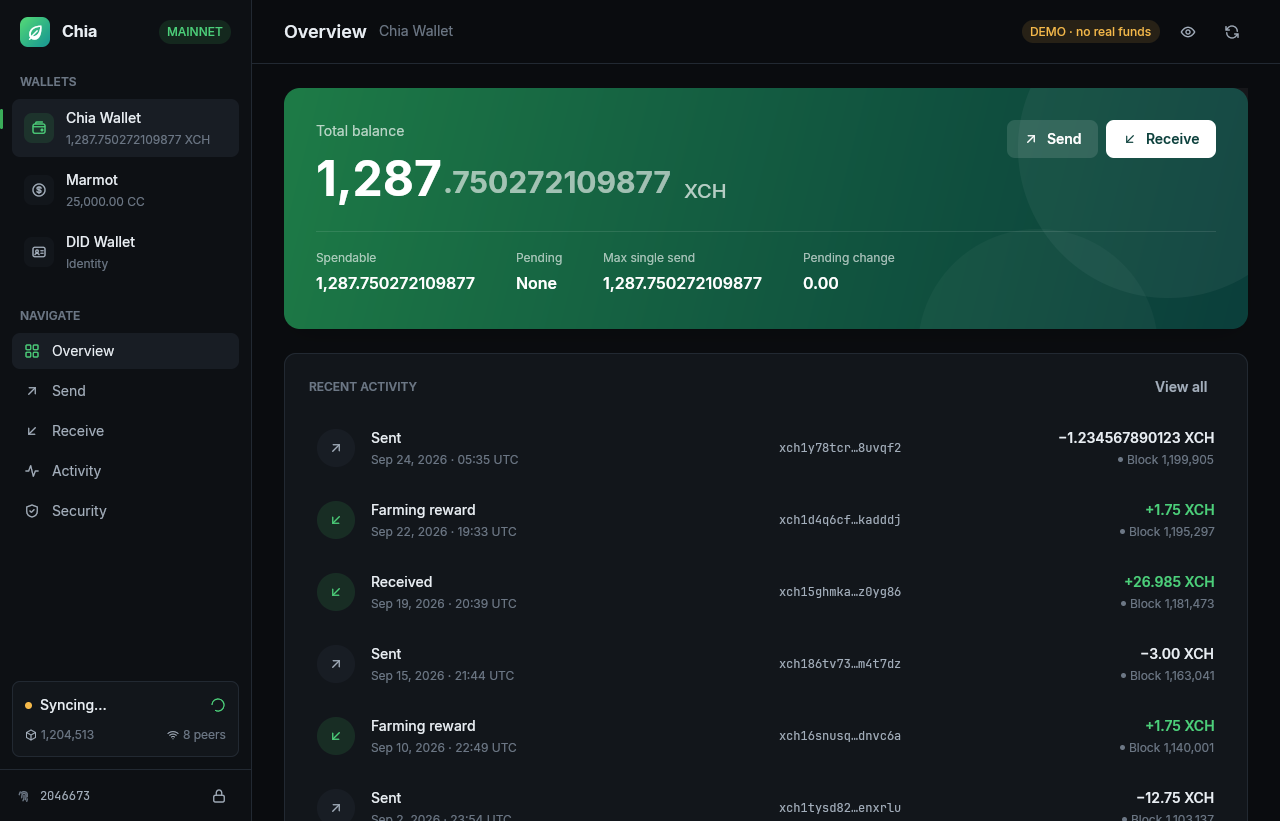
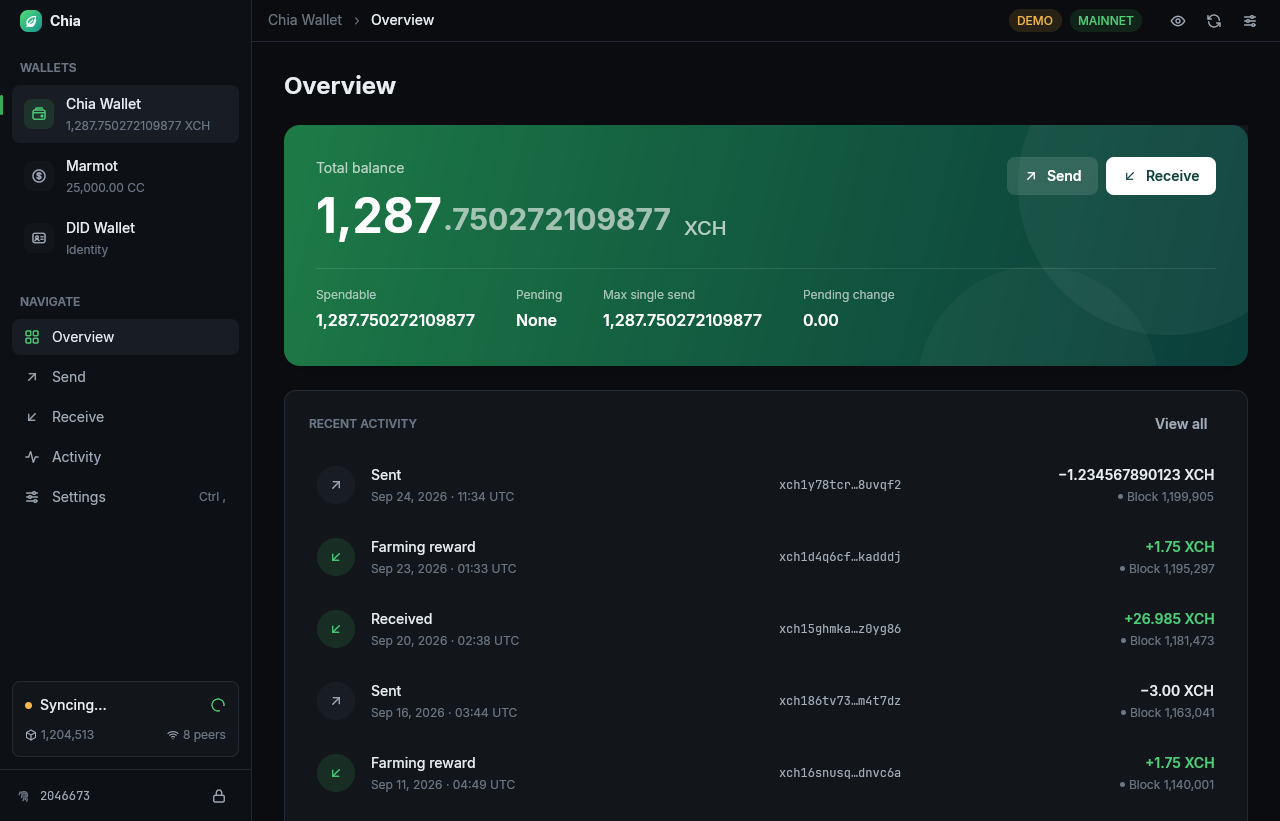
Unified top bar with inset traffic lights on macOS
- macOS: transparent titlebar; the traffic lights sit inside a 42px
  Chrome/Signal-style top bar that continues the sidebar column. Lights
  are placed within AppKit's draggable titlebar strip, and double-click
  on empty bar space zooms/minimises per the user's system setting.
- All platforms: brand moves into the top bar next to a wallet › page
  breadcrumb, status badges and privacy/refresh/settings buttons; page
  titles become large headings in the content area.

Claude-Session: https://claude.ai/code/session_01WBMvAXpwbzUtw6jjRCSUDr

diff --git a/wallet-rs/crates/app/src/shell.rs b/wallet-rs/crates/app/src/shell.rs
@@ -17,10 +17,13 @@ use crate::qr::qr_code;
 use crate::send::{PendingSend, SendForm, SendFormEvent};
 use crate::store::Store;
 use crate::theme;
-use crate::widgets::{Button, Callout, badge, callout, card, dot, eyebrow, icon, icon_button, modal, mono, spinner};
+use crate::widgets::{
+    Button, Callout, badge, callout, card, dot, eyebrow, icon, icon_button, logo, modal, mono, spinner, titlebar_area,
+};
 
 mod settings;
 
+const SIDEBAR_W: f32 = 252.;
 const ARM_DELAY: Duration = Duration::from_millis(1500);
 
 #[derive(Clone, Copy, PartialEq, Eq, Debug)]
@@ -392,51 +395,17 @@ impl Shell {
             (theme::muted(), "Not synced")
         };
         let fingerprint = store.fingerprint.map(|f| f.to_string()).unwrap_or_default();
-        let net = store.network.network_name.to_uppercase();
 
         div()
             .flex()
             .flex_col()
             .flex_none()
-            .w(px(252.))
+            .w(px(SIDEBAR_W))
             .h_full()
             .bg(theme::sidebar())
             .border_r_1()
             .border_color(theme::border())
-            .child(
-                div()
-                    .flex()
-                    .items_center()
-                    .gap_3()
-                    .px_5()
-                    .h(px(64.))
-                    .child(
-                        div()
-                            .size(px(30.))
-                            .rounded_lg()
-                            .flex()
-                            .items_center()
-                            .justify_center()
-                            .bg(linear_gradient(
-                                135.,
-                                linear_color_stop(theme::accent_hi(), 0.),
-                                linear_color_stop(theme::teal(), 1.),
-                            ))
-                            .child(icon(Icon::Leaf).size(px(18.)).text_color(theme::rgb_white())),
-                    )
-                    .child(
-                        div()
-                            .text_base()
-                            .font_weight(FontWeight::BOLD)
-                            .text_color(theme::text())
-                            .child("Chia"),
-                    )
-                    .child(div().flex_1())
-                    .when(!net.is_empty(), |d| {
-                        d.child(badge(net, theme::accent_hi(), theme::accent_soft()))
-                    }),
-            )
-            .child(div().px_5().pt_2().pb_2().child(eyebrow("Wallets")))
+            .child(div().px_5().pt_4().pb_2().child(eyebrow("Wallets")))
             .child(div().flex().flex_col().gap_1().px_3().children(wallets))
             .child(div().px_5().pt_6().pb_2().child(eyebrow("Navigate")))
             .child(
@@ -538,45 +507,92 @@ impl Shell {
 
     // ----- pages -----------------------------------------------------------------------------
 
-    fn header(&self, cx: &mut Context<Self>) -> impl IntoElement {
+    /// The unified top bar: brand over the sidebar, then breadcrumb, status
+    /// badges and quick actions. On macOS the traffic lights sit at its left.
+    fn topbar(&self, cx: &mut Context<Self>) -> impl IntoElement {
         let store = self.store.read(cx);
         let wallet_name = store.wallet(self.wallet_id).map(|w| w.name.clone()).unwrap_or_default();
         let privacy = store.privacy;
         let demo = store.security.demo;
         let offline = !store.connected;
-        div()
+        let net = store.network.network_name.to_uppercase();
+        titlebar_area("topbar")
             .flex()
-            .items_center()
-            .gap_3()
-            .px_8()
-            .h(px(64.))
             .flex_none()
-            .border_b_1()
-            .border_color(theme::border())
+            .h(px(theme::TOPBAR_H))
+            .child(
+                // Continues the sidebar column upward.
+                div()
+                    .flex()
+                    .items_center()
+                    .gap_2()
+                    .flex_none()
+                    .w(px(SIDEBAR_W))
+                    .h_full()
+                    .pl(px(20. + theme::TRAFFIC_LIGHTS_W))
+                    .pr_4()
+                    .bg(theme::sidebar())
+                    .border_r_1()
+                    .border_color(theme::border())
+                    .child(logo(22.))
+                    .child(
+                        div()
+                            .text_sm()
+                            .font_weight(FontWeight::BOLD)
+                            .text_color(theme::text())
+                            .child("Chia"),
+                    ),
+            )
             .child(
                 div()
-                    .text_lg()
-                    .font_weight(FontWeight::SEMIBOLD)
-                    .text_color(theme::text())
-                    .child(self.page.title()),
-            )
-            .child(div().text_sm().text_color(theme::muted()).child(wallet_name))
-            .child(div().flex_1())
-            .when(offline, |d| {
-                d.child(badge("Reconnecting to daemon…", theme::danger(), theme::danger_soft()))
-            })
-            .when(demo, |d| {
-                d.child(badge("DEMO · no real funds", theme::warning(), theme::warning_soft()))
-            })
-            .child(
-                icon_button("privacy", if privacy { Icon::EyeOff } else { Icon::Eye }).on_click(
-                    cx.listener(move |this, _, _, cx| this.store.update(cx, |s, cx| s.set_privacy(!privacy, cx))),
-                ),
-            )
-            .child(
-                icon_button("refresh", Icon::Refresh).on_click(cx.listener(|this, _, _, cx| {
-                    this.store.update(cx, |s, cx| s.refresh_all(cx));
-                })),
+                    .flex()
+                    .items_center()
+                    .gap_2()
+                    .flex_1()
+                    .min_w_0()
+                    .h_full()
+                    .px_4()
+                    .border_b_1()
+                    .border_color(theme::border())
+                    .child(div().text_sm().text_color(theme::muted()).truncate().child(wallet_name))
+                    .child(icon(Icon::ChevronRight).size_3().text_color(theme::muted()))
+                    .child(
+                        div()
+                            .text_sm()
+                            .font_weight(FontWeight::MEDIUM)
+                            .text_color(theme::text())
+                            .child(self.page.title()),
+                    )
+                    .child(div().flex_1())
+                    .when(offline, |d| {
+                        d.child(badge("Reconnecting…", theme::danger(), theme::danger_soft()))
+                    })
+                    .when(demo, |d| {
+                        d.child(badge("DEMO", theme::warning(), theme::warning_soft()))
+                    })
+                    .when(!net.is_empty(), |d| {
+                        d.child(badge(net, theme::accent_hi(), theme::accent_soft()))
+                    })
+                    .child(div().w(px(6.)))
+                    .child(
+                        icon_button("privacy", if privacy { Icon::EyeOff } else { Icon::Eye })
+                            .size(px(28.))
+                            .on_click(cx.listener(move |this, _, _, cx| {
+                                this.store.update(cx, |s, cx| s.set_privacy(!privacy, cx))
+                            })),
+                    )
+                    .child(
+                        icon_button("refresh", Icon::Refresh)
+                            .size(px(28.))
+                            .on_click(cx.listener(|this, _, _, cx| {
+                                this.store.update(cx, |s, cx| s.refresh_all(cx));
+                            })),
+                    )
+                    .child(
+                        icon_button("topbar-settings", Icon::Settings)
+                            .size(px(28.))
+                            .on_click(cx.listener(|this, _, _, cx| this.open_settings_general(cx))),
+                    ),
             )
     }
 
@@ -1267,36 +1283,44 @@ impl Render for Shell {
             Page::Activity => self.activity(cx),
         };
         let fill_height = self.page == Page::Activity;
+        let content = div()
+            .id(("page", self.page as usize))
+            .flex()
+            .flex_col()
+            .flex_1()
+            .min_h_0()
+            .px_8()
+            .pt_6()
+            .pb_8()
+            .when(!fill_height, |d| d.overflow_y_scroll())
+            .child(
+                div()
+                    .flex_none()
+                    .pb_5()
+                    .text_2xl()
+                    .font_weight(FontWeight::BOLD)
+                    .text_color(theme::text())
+                    .child(self.page.title()),
+            )
+            .child(if fill_height {
+                page
+            } else {
+                div().flex().flex_col().flex_none().child(page).into_any_element()
+            });
         div()
             .relative()
             .size_full()
             .flex()
+            .flex_col()
             .bg(theme::bg())
-            .child(self.sidebar(cx))
+            .child(self.topbar(cx))
             .child(
                 div()
                     .flex()
-                    .flex_col()
                     .flex_1()
-                    .min_w_0()
-                    .h_full()
-                    .child(self.header(cx))
-                    .child(
-                        div()
-                            .id(("page", self.page as usize))
-                            .flex()
-                            .flex_col()
-                            .flex_1()
-                            .min_h_0()
-                            .px_8()
-                            .py_6()
-                            .when(!fill_height, |d| d.overflow_y_scroll())
-                            .child(if fill_height {
-                                page
-                            } else {
-                                div().flex().flex_col().flex_none().child(page).into_any_element()
-                            }),
-                    ),
+                    .min_h_0()
+                    .child(self.sidebar(cx))
+                    .child(div().flex().flex_col().flex_1().min_w_0().h_full().child(content)),
             )
             .children(self.render_modal(cx))
     }

diff --git a/wallet-rs/crates/app/src/root.rs b/wallet-rs/crates/app/src/root.rs
@@ -14,7 +14,7 @@ use crate::keys::KeysScreen;
 use crate::shell::Shell;
 use crate::store::{Phase, Store, ToastKind};
 use crate::theme;
-use crate::widgets::{Button, Dismiss, OpenSettings, card, icon, icon_button, mono, spinner};
+use crate::widgets::{Button, Dismiss, OpenSettings, card, icon, icon_button, mono, spinner, titlebar_area};
 
 const IDLE_HIDE: Duration = Duration::from_secs(120);
 
@@ -272,6 +272,18 @@ impl Render for WalletApp {
             .on_mouse_move(cx.listener(|this, _, _, _| this.last_input = Instant::now()))
             .capture_key_down(cx.listener(|this, _, _, _| this.last_input = Instant::now()))
             .child(body)
+            // Full-window screens have no top bar; keep an invisible one so the
+            // window can still be zoomed by double-clicking the top edge on macOS.
+            .when(self.shell.is_none(), |d| {
+                d.child(
+                    titlebar_area("root-titlebar")
+                        .absolute()
+                        .top_0()
+                        .left_0()
+                        .right_0()
+                        .h(px(theme::TOPBAR_H)),
+                )
+            })
             .child(self.toasts(cx))
     }
 }

diff --git a/wallet-rs/crates/app/src/widgets.rs b/wallet-rs/crates/app/src/widgets.rs
@@ -25,6 +25,33 @@ pub fn spinner(id: impl Into<ElementId>) -> impl IntoElement {
     )
 }
 
+/// Double-clicking empty top-bar space zooms/minimises the window as the
+/// user's macOS preference says. (Dragging is handled natively by AppKit.)
+pub fn titlebar_area(id: impl Into<ElementId>) -> gpui::Stateful<Div> {
+    div().id(id).on_click(|ev, window, _| {
+        if ev.click_count() == 2 {
+            window.titlebar_double_click();
+        }
+    })
+}
+
+/// The brand mark used in the top bar and dialogs.
+pub fn logo(size: f32) -> Div {
+    div()
+        .size(px(size))
+        .flex_none()
+        .rounded_lg()
+        .flex()
+        .items_center()
+        .justify_center()
+        .bg(gpui::linear_gradient(
+            135.,
+            gpui::linear_color_stop(theme::accent_hi(), 0.),
+            gpui::linear_color_stop(theme::teal(), 1.),
+        ))
+        .child(icon(Icon::Leaf).size(px(size * 0.6)).text_color(theme::rgb_white()))
+}
+
 pub fn card() -> Div {
     div()
         .flex()

diff --git a/wallet-rs/crates/app/src/main.rs b/wallet-rs/crates/app/src/main.rs
@@ -216,8 +216,10 @@ fn main() {
             window_bounds: Some(WindowBounds::Windowed(bounds)),
             titlebar: Some(TitlebarOptions {
                 title: Some("Chia Wallet".into()),
-                appears_transparent: false,
-                traffic_light_position: Some(point(px(12.), px(12.))),
+                // macOS: draw our own top bar under the traffic lights, like
+                // Chrome/Signal. Elsewhere keep the native titlebar.
+                appears_transparent: cfg!(target_os = "macos"),
+                traffic_light_position: Some(point(px(theme::TRAFFIC_LIGHTS.0), px(theme::TRAFFIC_LIGHTS.1))),
             }),
             window_min_size: Some(size(px(980.), px(640.))),
             app_id: Some("net.chia.wallet-native".into()),

diff --git a/wallet-rs/crates/app/src/theme.rs b/wallet-rs/crates/app/src/theme.rs
@@ -5,6 +5,14 @@ use gpui::{Hsla, Rgba, rgb, rgba};
 pub const SANS: &str = "Inter";
 pub const MONO: &str = "JetBrains Mono";
 
+/// Height of the unified top bar. On macOS the traffic lights sit inside it,
+/// within AppKit's ~28 px draggable titlebar strip.
+pub const TOPBAR_H: f32 = 42.;
+/// Where macOS draws the traffic lights (from the window's top-left).
+pub const TRAFFIC_LIGHTS: (f32, f32) = (16., 14.);
+/// Horizontal space the traffic lights take up, or 0 where there are none.
+pub const TRAFFIC_LIGHTS_W: f32 = if cfg!(target_os = "macos") { 76. } else { 0. };
+
 pub fn bg() -> Rgba {
     rgb(0x0a0c0f)
 }
